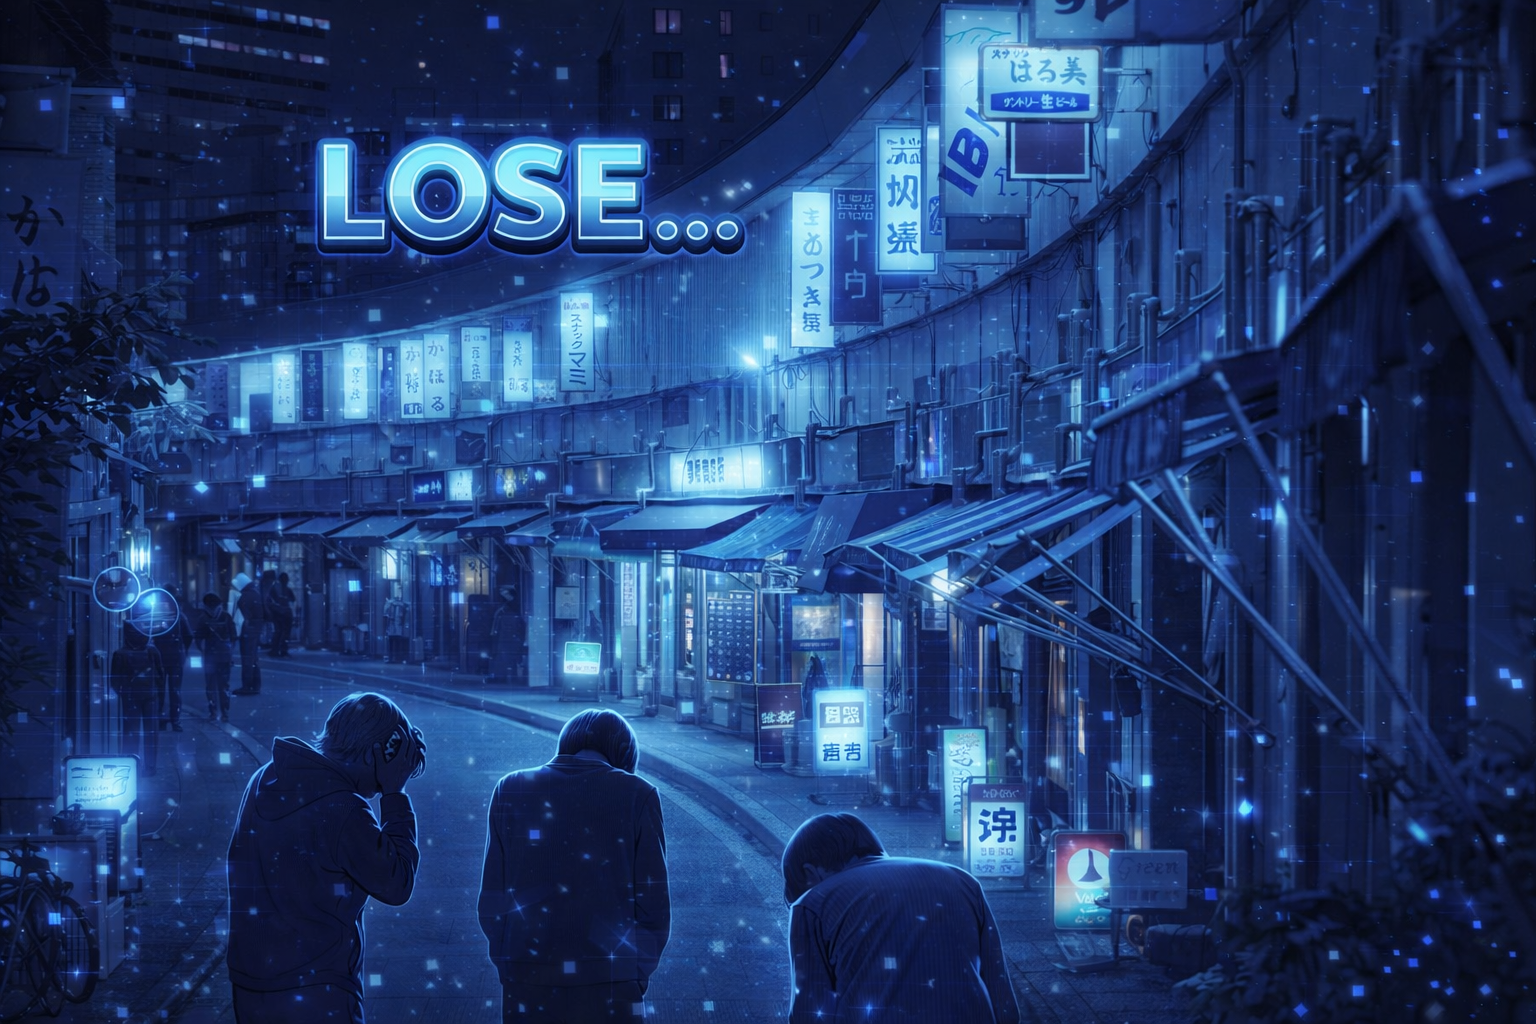
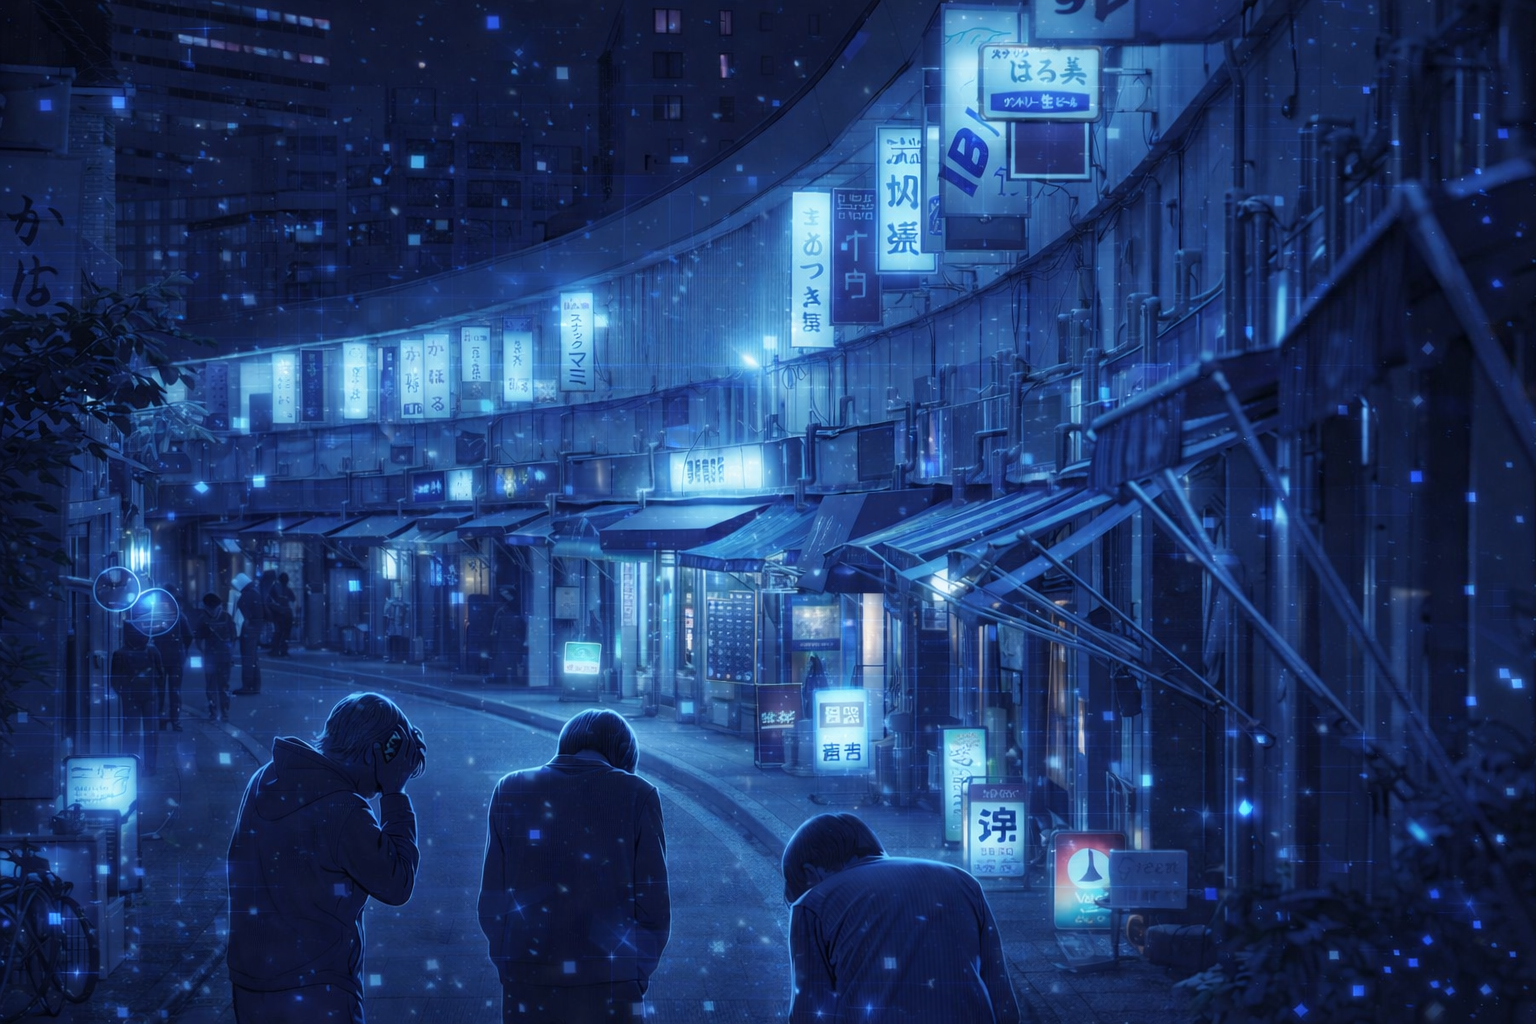
refactor: Clean up placeholder image and minor reviews page formatting
【実装内容】
- placeholder.png を削除（実装完了）
- lose.png, win.png を更新
- reviews ページの微細な形式修正

Changed region(s): [[0.1875, 0.0938, 0.5, 0.3125], [0.4375, 0.4062, 0.4688, 0.4375]]

diff --git a/apps/web/src/app/reviews/page.tsx b/apps/web/src/app/reviews/page.tsx
@@ -169,7 +169,7 @@ export default function ReviewsPage() {
 
     return (
         <main style={{ padding: 24, maxWidth: 800, margin: "0 auto" }}>
-            <h1>📖 授業レビュー</h1>
+            <h1>授業レビュー</h1>
             <p>handle: <b>{handle}</b></p>
 
             <button
@@ -186,7 +186,7 @@ export default function ReviewsPage() {
                 {/* 授業一覧 */}
                 <div style={{ border: "1px solid #ccc", padding: 16, borderRadius: 8 }}>
                     <h2>授業一覧</h2>
-                    
+
                     {/* 検索窓 */}
                     <div style={{ marginBottom: 16 }}>
                         <input
